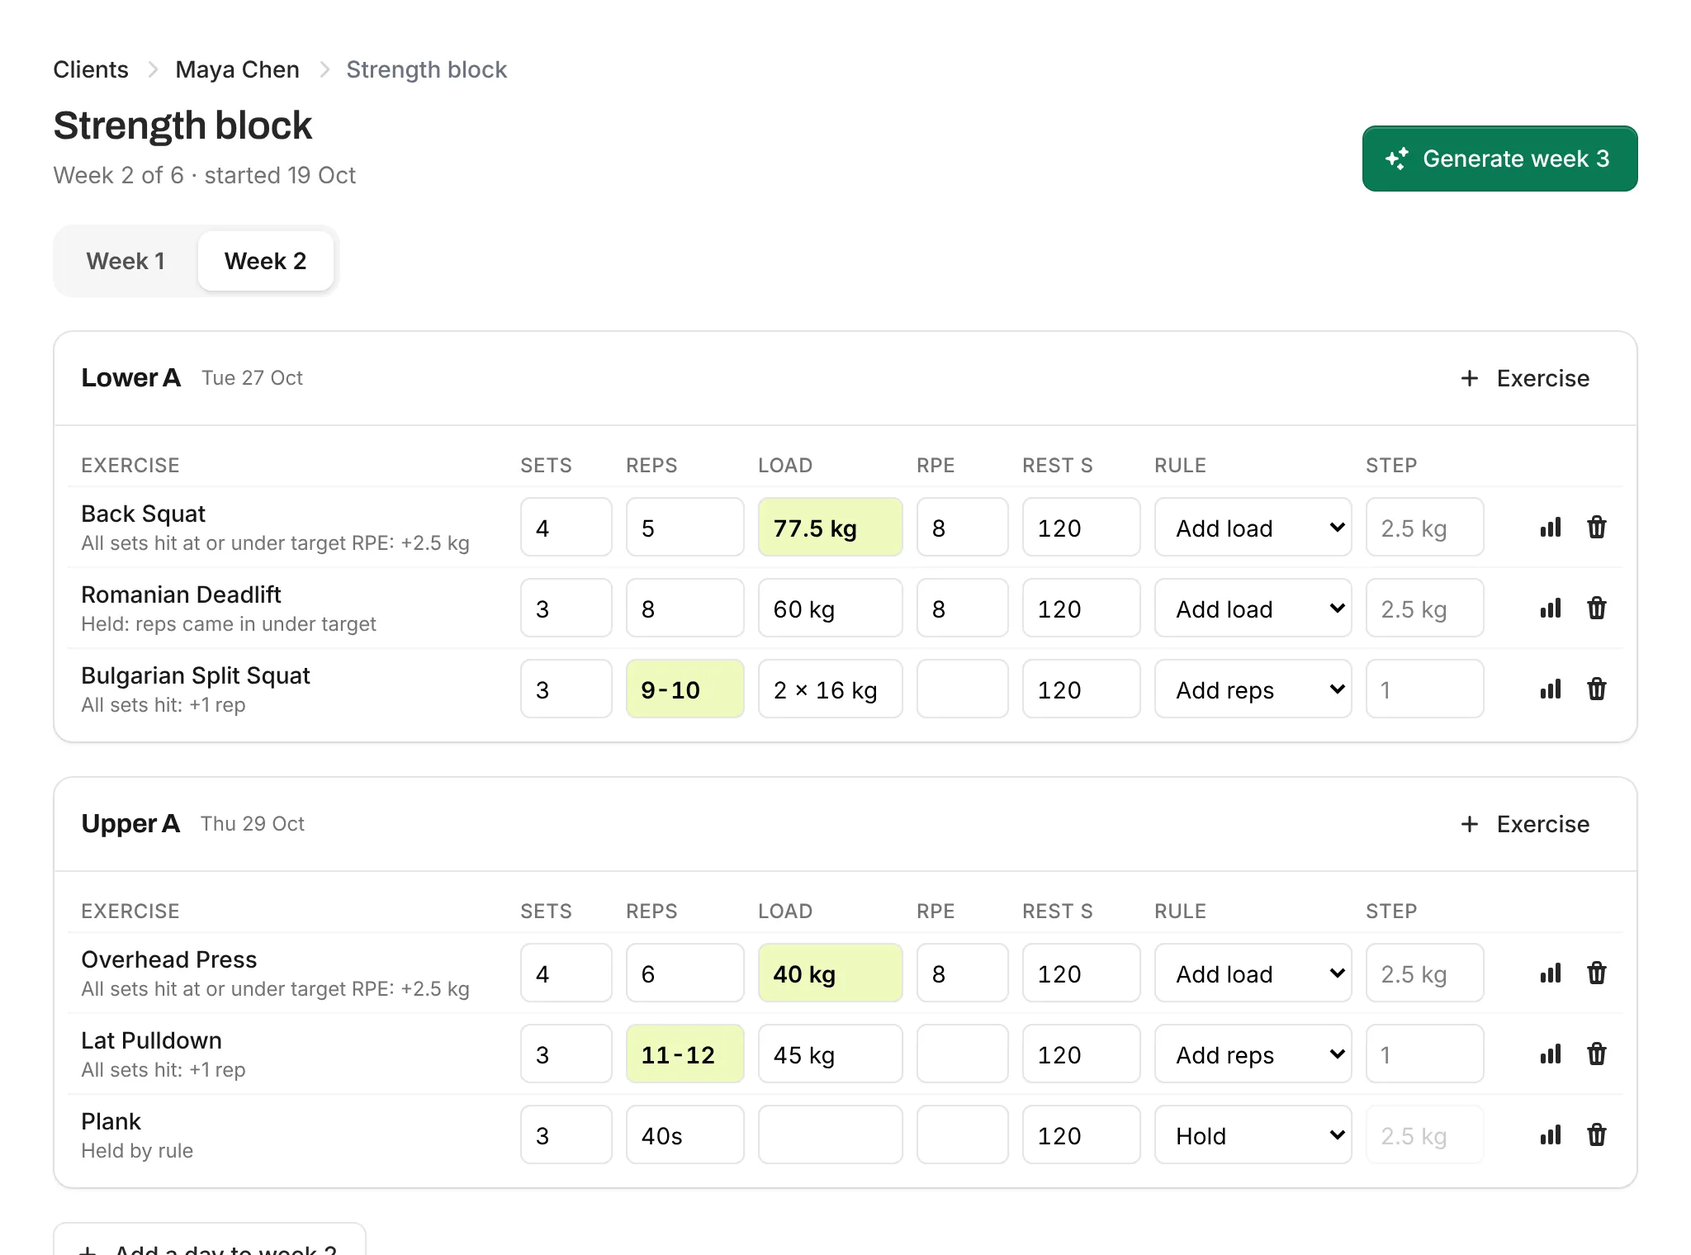
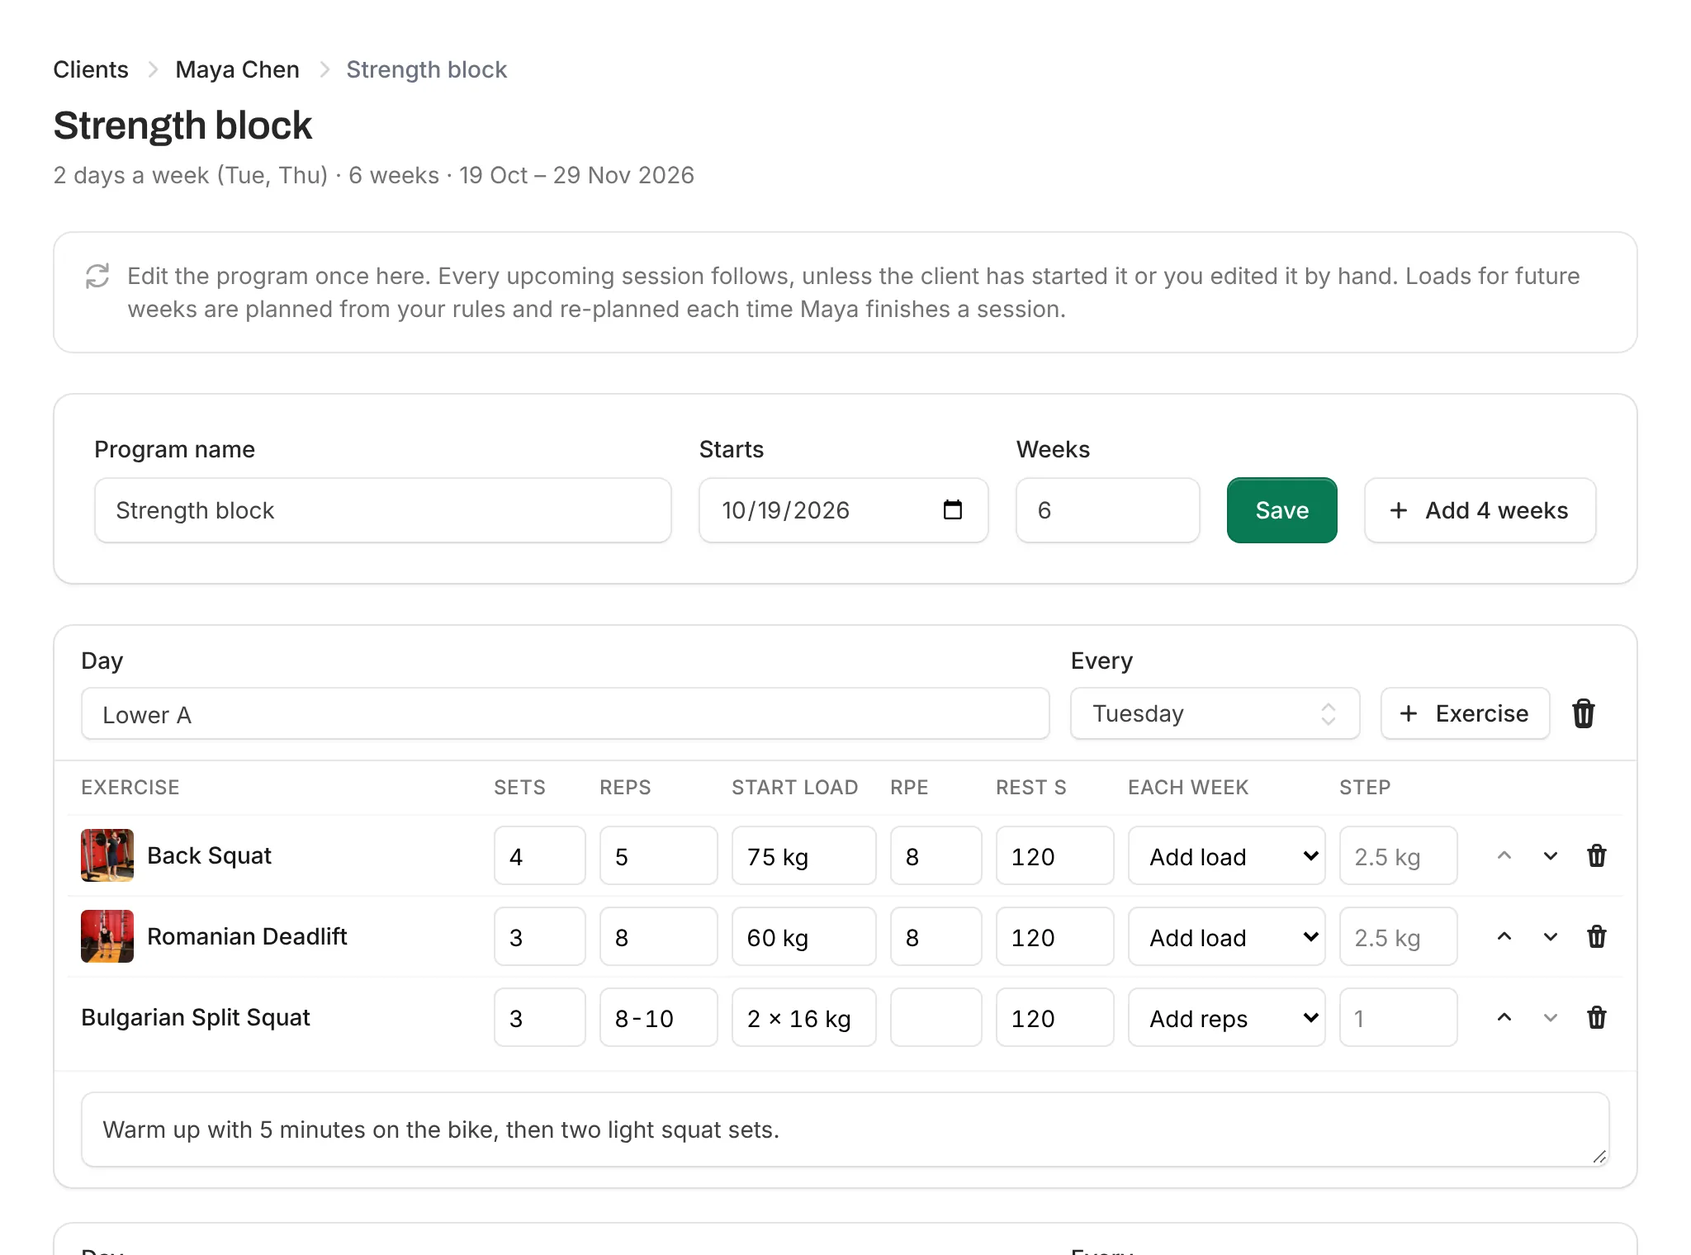
Update the home page for recurring programs, nutrition and gyms
Claude-Session: https://claude.ai/code/session_01BMW7iMu1orMHQmQGASM4NZ

diff --git a/resources/views/welcome.blade.php b/resources/views/welcome.blade.php
@@ -7,9 +7,9 @@
 <html lang="{{ str_replace('_', '-', app()->getLocale()) }}" class="scroll-smooth">
     <head>
         @include('partials.head', ['title' => __('Programming that keeps up with your clients')])
-        <meta name="description" content="{{ __('Spotter is coaching software for personal trainers. Build programs that progress from what each client actually lifts, give clients an app to log every set, and handle check-ins, form checks and messages from one inbox. English and French.') }}">
+        <meta name="description" content="{{ __('Spotter is coaching software for personal trainers and gyms. Build a program once and it schedules itself, progressing from what each client actually lifts. Nutrition tracking, an 870+ exercise library with photos, and one inbox for check-ins, form checks and messages. English and French.') }}">
         @php($shareTitle = __('Spotter: programming that keeps up with your clients'))
-        @php($shareText = __('Build programs that progress from what each client actually lifts, and handle every check-in, form check and message from one inbox. For personal trainers, in English and French.'))
+        @php($shareText = __('Build a program once and it schedules itself, progressing from what each client actually lifts. Nutrition, an 870+ exercise library and one inbox for every check-in. For trainers and gyms, in English and French.'))
         <link rel="canonical" href="{{ url('/') }}">
         <meta property="og:type" content="website">
         <meta property="og:site_name" content="Spotter">
@@ -39,8 +39,9 @@
                 </a>
                 <nav aria-label="{{ __('Main') }}" class="hidden items-center gap-7 text-sm font-medium text-zinc-300 md:flex">
                     <a href="#programs" class="hover:text-white">{{ __('Programs') }}</a>
-                    <a href="#clients" class="hover:text-white">{{ __('Client app') }}</a>
+                    <a href="#nutrition" class="hover:text-white">{{ __('Nutrition') }}</a>
                     <a href="#inbox" class="hover:text-white">{{ __('Inbox') }}</a>
+                    <a href="#gyms" class="hover:text-white">{{ __('Gyms') }}</a>
                     <a href="#switch" class="hover:text-white">{{ __('Switching') }}</a>
                     <a href="#pricing" class="hover:text-white">{{ __('Pricing') }}</a>
                 </nav>
@@ -67,7 +68,7 @@
                             {{ __('Programming that') }} <span class="text-lime">{{ __('keeps up with your clients.') }}</span>
                         </h1>
                         <p class="mx-auto mt-6 max-w-2xl text-lg leading-relaxed text-zinc-300 sm:text-xl">
-                            {{ __('Build programs that progress from what each client actually lifts. Then handle every check-in, form check and message from one inbox, with replies already started.') }}
+                            {{ __('Build a program once and Spotter puts every session on your client’s calendar, week after week, moving loads up from what they actually lift. Then handle every check-in, form check and message from one inbox, with replies already started.') }}
                         </p>
                         <div class="mt-9 flex flex-col justify-center gap-3 sm:flex-row">
                             <a href="{{ route('register') }}" class="inline-flex h-12 items-center justify-center rounded-xl bg-lime px-6 font-bold text-ink hover:bg-lime/90">{{ __('Create your coach account') }}</a>
@@ -79,7 +80,7 @@
                     <div class="relative mx-auto w-full max-w-5xl">
                         <div class="absolute -inset-x-10 -top-10 bottom-0 rounded-full bg-brand/30 blur-3xl" aria-hidden="true"></div>
                         <img src="{{ asset('images/home/program.webp') }}" width="2048" height="1520"
-                             alt="{{ __('Spotter program grid for week 2. Back squat load went from 75 to 77.5 kg and is highlighted; Romanian deadlift held because reps came in under target.') }}"
+                             alt="{{ __('The Spotter program editor: Lower A every Tuesday, with back squat, Romanian deadlift and split squats, each with sets, reps, a starting load and a rule to add load or reps each week.') }}"
                              class="relative hidden rounded-t-2xl border border-b-0 border-white/10 shadow-2xl sm:block">
                         <div class="relative mb-[-3rem] sm:hidden {{ $phone }}">
                             <img src="{{ asset('images/home/workout.webp') }}" width="780" height="1560" alt="{{ __('A client logging Back Squat sets in Spotter, with the rest timer running.') }}">
@@ -92,7 +93,7 @@
             <section class="border-b border-zinc-200 bg-zinc-50">
                 <div class="mx-auto grid max-w-6xl gap-8 px-4 py-14 sm:px-6 md:grid-cols-3">
                     @foreach ([
-                        [__('Rebuilding next week by hand'), __('Copying last week and bumping every load yourself. Spotter checks what each client logged and builds the next week for you to review.')],
+                        [__('Rebuilding every week by hand'), __('Copying sessions onto the calendar and bumping loads yourself. Build the program once: Spotter schedules every week and moves loads from what each client logged.')],
                         [__('Sunday night check-in pile'), __('Thirty check-ins, each needing a read and a reply. They land in one inbox, summarized, with the reply already started.')],
                         [__('Stuck because leaving is hard'), __('We import your client list and rebuild your programs from your exports, and tell you upfront what can’t come across.')],
                     ] as [$title, $text])
@@ -109,14 +110,14 @@
                 <div class="mx-auto grid max-w-6xl items-center gap-12 px-4 py-20 sm:px-6 lg:grid-cols-[minmax(0,1fr)_minmax(0,1.3fr)] lg:py-28">
                     <div>
                         <p class="text-sm font-bold uppercase tracking-wider text-brand">{{ __('Programs') }}</p>
-                        <h2 class="mt-3 font-display text-3xl font-extrabold tracking-tight sm:text-4xl">{{ __('Write the program once. Let the logs move it forward.') }}</h2>
-                        <p class="mt-4 text-lg leading-relaxed text-zinc-600">{{ __('Set a rule on each exercise: add load, add reps, or hold. When you build next week, Spotter checks every logged set against the plan.') }}</p>
+                        <h2 class="mt-3 font-display text-3xl font-extrabold tracking-tight sm:text-4xl">{{ __('Build it once. It schedules itself.') }}</h2>
+                        <p class="mt-4 text-lg leading-relaxed text-zinc-600">{{ __('Pick the training days and weekdays, add exercises from the library and set a rule on each: add load, add reps, or hold. Every session for every week lands on your client’s calendar.') }}</p>
                         <ul class="mt-8 flex flex-col gap-4">
                             @foreach ([
-                                __('Hit every set at or under the target effort? The load goes up by your step, like 2.5 kg or 5%.'),
-                                __('Missed reps or felt too hard? The row holds, and you can see why.'),
-                                __('Changed cells are highlighted, so reviewing a new week takes seconds.'),
-                                __('A spreadsheet-style grid you can edit like a sheet, with planned vs actual for every exercise.'),
+                                __('Edit the program once and every upcoming session follows. Sessions your client has started stay exactly as they are.'),
+                                __('Each time a session is done, the coming weeks are re-planned: targets hit means the load goes up by your step; missed reps or a missed session means it holds.'),
+                                __('Need a one-off change? Edit a single session and the program leaves it alone. Skip a week with one click.'),
+                                __('A calendar of every week shows what’s done, missed, planned or edited, with planned vs actual for each exercise.'),
                             ] as $point)
                                 <li class="flex gap-3">
                                     <span class="mt-1 flex size-5 shrink-0 items-center justify-center rounded-full bg-lime text-xs font-extrabold text-ink" aria-hidden="true">✓</span>
@@ -159,6 +160,22 @@
                         </div>
                     </figure>
                 </div>
+                <div class="mx-auto max-w-6xl px-4 pb-20 sm:px-6 lg:pb-28">
+                    <img src="{{ asset('images/home/calendar.webp') }}" width="2048" height="846" loading="lazy"
+                         alt="{{ __('A program calendar: six weeks of Tuesday and Thursday sessions, week 1 done and weeks 2 to 6 planned.') }}"
+                         class="w-full">
+
+                    <div class="mt-16 grid items-center gap-10 lg:grid-cols-[minmax(0,1fr)_minmax(0,1.4fr)]">
+                        <div>
+                            <h3 class="font-display text-2xl font-extrabold tracking-tight sm:text-3xl">{{ __('870+ exercises with photos and steps') }}</h3>
+                            <p class="mt-3 text-lg leading-relaxed text-zinc-600">{{ __('A full library is ready from day one: start and end photos, step-by-step instructions, muscles, equipment and level. Filter by muscle or equipment, and add your own exercises for your team.') }}</p>
+                            <p class="mt-3 leading-relaxed text-zinc-600">{{ __('Clients tap “How to” in their workout to see the photos and steps.') }}</p>
+                        </div>
+                        <img src="{{ asset('images/home/library.webp') }}" width="2048" height="1400" loading="lazy"
+                             alt="{{ __('The Spotter exercise library: cards with a photo, muscle group, equipment and level for each exercise, with filters at the top.') }}"
+                             class="rounded-2xl border border-zinc-200 shadow-xl">
+                    </div>
+                </div>
             </section>
 
             {{-- Client app --}}
@@ -185,6 +202,39 @@
                                 </figcaption>
                             </figure>
                         @endforeach
+                    </div>
+                </div>
+            </section>
+
+            {{-- Nutrition --}}
+            <section id="nutrition" class="scroll-mt-20 bg-zinc-50">
+                <div class="mx-auto grid max-w-6xl items-center gap-12 px-4 py-20 sm:px-6 lg:grid-cols-[minmax(0,1fr)_minmax(0,1.3fr)] lg:py-28">
+                    <div>
+                        <p class="text-sm font-bold uppercase tracking-wider text-brand">{{ __('Nutrition') }}</p>
+                        <h2 class="mt-3 font-display text-3xl font-extrabold tracking-tight sm:text-4xl">{{ __('Nutrition without another app to manage.') }}</h2>
+                        <p class="mt-4 text-lg leading-relaxed text-zinc-600">{{ __('Clients log weight, calories, protein, carbs and fat once a day. Already tracking somewhere else? They upload their export from MacroFactor, MyFitnessPal or Lose It! and every day comes across.') }}</p>
+                        <ul class="mt-8 flex flex-col gap-4">
+                            @foreach ([
+                                __('Set daily calorie and macro targets for each client.'),
+                                __('See 7- and 30-day averages, days within 10% of calories, and weight trend at a glance.'),
+                                __('Weekly check-in summaries include the week’s nutrition, so you see training and food together.'),
+                            ] as $point)
+                                <li class="flex gap-3">
+                                    <span class="mt-1 flex size-5 shrink-0 items-center justify-center rounded-full bg-lime text-xs font-extrabold text-ink" aria-hidden="true">✓</span>
+                                    <span class="leading-relaxed text-zinc-700">{{ $point }}</span>
+                                </li>
+                            @endforeach
+                        </ul>
+                    </div>
+                    <div class="relative">
+                        <img src="{{ asset('images/home/coach-nutrition.webp') }}" width="2048" height="1240" loading="lazy"
+                             alt="{{ __('The coach’s nutrition view for a client: 7- and 30-day averages against targets, and a daily log with weight, calories and macros.') }}"
+                             class="rounded-2xl border border-zinc-200 shadow-xl lg:me-28">
+                        <div class="absolute -bottom-12 -end-6 hidden w-40 lg:block">
+                            <div class="{{ $phone }} max-w-none border-8">
+                                <img src="{{ asset('images/home/nutrition.webp') }}" width="780" height="1560" loading="lazy" alt="{{ __('The client’s nutrition screen on a phone, with daily targets and a form to log the day.') }}">
+                            </div>
+                        </div>
                     </div>
                 </div>
             </section>
@@ -226,6 +276,32 @@
                         <div class="{{ $phone }}">
                             <img src="{{ asset('images/home/focus.webp') }}" width="780" height="1560" loading="lazy" alt="{{ __('The inbox on a phone, showing one item at a time with a drafted reply and an Approve and send button.') }}">
                         </div>
+                    </div>
+                </div>
+            </section>
+
+            {{-- Gyms --}}
+            <section id="gyms" class="scroll-mt-20 bg-zinc-50">
+                <div class="mx-auto grid max-w-6xl items-center gap-12 px-4 py-20 sm:px-6 lg:grid-cols-[minmax(0,1.3fr)_minmax(0,1fr)] lg:py-28">
+                    <img src="{{ asset('images/home/team.webp') }}" width="2048" height="1120" loading="lazy"
+                         alt="{{ __('The Team page: the gym owner and a coach, each with their role and client count, and a form to invite another coach.') }}"
+                         class="order-last rounded-2xl border border-zinc-200 shadow-xl lg:order-first">
+                    <div>
+                        <p class="text-sm font-bold uppercase tracking-wider text-brand">{{ __('For gyms') }}</p>
+                        <h2 class="mt-3 font-display text-3xl font-extrabold tracking-tight sm:text-4xl">{{ __('One gym, a whole team of trainers.') }}</h2>
+                        <p class="mt-4 text-lg leading-relaxed text-zinc-600">{{ __('Invite your coaches and work from one shared exercise library and set of templates. Each coach sees their own clients; owners and admins see everyone.') }}</p>
+                        <ul class="mt-8 flex flex-col gap-4">
+                            @foreach ([
+                                __('Reassign a client to another coach in one step. Their upcoming sessions and open inbox items go with them, and the message history stays.'),
+                                __('When a coach leaves, hand their clients to someone else first. Nothing is lost.'),
+                                __('Your gym’s name and colour on the client app.'),
+                            ] as $point)
+                                <li class="flex gap-3">
+                                    <span class="mt-1 flex size-5 shrink-0 items-center justify-center rounded-full bg-lime text-xs font-extrabold text-ink" aria-hidden="true">✓</span>
+                                    <span class="leading-relaxed text-zinc-700">{{ $point }}</span>
+                                </li>
+                            @endforeach
+                        </ul>
                     </div>
                 </div>
             </section>
@@ -283,9 +359,9 @@
 
                     <div class="mt-14 grid gap-6 lg:grid-cols-3">
                         @foreach ([
-                            ['name' => __('Starter'), 'price' => '$0', 'per' => __('forever'), 'blurb' => __('Try everything with your first clients.'), 'features' => [__('Up to 3 active clients'), __('Programs with progression rules'), __('Client app in English and French'), __('Coach Inbox with drafted replies')], 'cta' => __('Start free'), 'featured' => false, 'soon' => false],
+                            ['name' => __('Starter'), 'price' => '$0', 'per' => __('forever'), 'blurb' => __('Try everything with your first clients.'), 'features' => [__('Up to 3 active clients'), __('Recurring programs with progression rules'), __('870+ exercise library with photos'), __('Nutrition tracking and imports'), __('Client app in English and French'), __('Coach Inbox with drafted replies')], 'cta' => __('Start free'), 'featured' => false, 'soon' => false],
                             ['name' => __('Coach'), 'price' => '$39', 'per' => __('per month'), 'blurb' => __('Includes 15 active clients, then $1.50 per extra active client.'), 'features' => [__('Everything in Starter'), __('Unlimited programs and templates'), __('Import from TrueCoach, Trainerize or spreadsheets'), __('Your brand colour and name on the client app')], 'cta' => __('Start free'), 'featured' => true, 'soon' => false],
-                            ['name' => __('Team'), 'price' => '$99', 'per' => __('per month'), 'blurb' => __('3 coach seats and 50 active clients.'), 'features' => [__('Everything in Coach'), __('Shared client list and library'), __('Inbox for each coach')], 'cta' => __('Coming soon'), 'featured' => false, 'soon' => true],
+                            ['name' => __('Team'), 'price' => '$99', 'per' => __('per month'), 'blurb' => __('3 coach seats and 50 active clients.'), 'features' => [__('Everything in Coach'), __('Owners and admins see every client'), __('Shared exercise library and templates'), __('Reassign clients between coaches'), __('An inbox for each coach')], 'cta' => __('Start free'), 'featured' => false, 'soon' => false],
                         ] as $plan)
                             <div @class(['flex flex-col rounded-2xl p-7', 'bg-ink text-white ring-4 ring-lime' => $plan['featured'], 'border border-zinc-200' => ! $plan['featured']])>
                                 <div class="flex items-center justify-between">
@@ -366,7 +442,10 @@
                     <h2 class="text-center font-display text-3xl font-extrabold tracking-tight sm:text-4xl">{{ __('Questions coaches ask') }}</h2>
                     <div class="mt-12 divide-y divide-zinc-200 rounded-2xl border border-zinc-200 bg-white">
                         @foreach ([
-                            [__('How does progression work?'), __('Each exercise can add load, add reps or hold. When you build the next week, Spotter compares what the client logged with what you planned and only progresses the rows they earned.')],
+                            [__('Do I have to schedule every session?'), __('No. Build the program once with training days on set weekdays, and Spotter puts every session for every week on your client’s calendar. Edit the program and every upcoming session follows.')],
+                            [__('How does progression work?'), __('Each exercise can add load, add reps or hold. Each time your client finishes a session, Spotter compares what they logged with the plan and re-plans the coming weeks: targets hit means the next step, misses mean it holds.')],
+                            [__('Does Spotter track nutrition?'), __('Yes: weight, calories and macros, one entry per day, with targets you set. Clients can also upload exports from MacroFactor, MyFitnessPal or Lose It!. It’s an upload, not a live sync, because those apps don’t offer an open connection.')],
+                            [__('Can my whole gym use Spotter?'), __('Yes. Invite your coaches to your team. Each coach sees their own clients; owners and admins see everyone and can reassign clients. The library and templates are shared.')],
                             [__('Does Spotter message my clients for me?'), __('No. It starts replies for you to finish. Every reply and program change waits for you to approve, edit or dismiss it.')],
                             [__('Do my clients need to download an app?'), __('No. Spotter opens in any phone browser, and clients can add it to their home screen so it feels like an app.')],
                             [__('Can I bring my programs from TrueCoach or Trainerize?'), __('Yes. Upload your client CSV and your program files (PDF or text). Spotter rebuilds each program and asks you to confirm any exercise names it isn’t sure about. Past workout logs usually don’t come across, because those platforms don’t export them.')],

diff --git a/tests/Feature/HomePageTest.php b/tests/Feature/HomePageTest.php
@@ -14,7 +14,9 @@ class HomePageTest extends TestCase
         $this->get(route('home'))
             ->assertOk()
             ->assertSee('keeps up with your clients.')
-            ->assertSee('Write the program once. Let the logs move it forward.')
+            ->assertSee('Build it once. It schedules itself.')
+            ->assertSee('Nutrition without another app to manage.')
+            ->assertSee('One gym, a whole team of trainers.')
             ->assertSee('Everything that needs you, in one ranked queue.')
             ->assertDontSee('your voice')
             ->assertSee('Bring your clients. We’ll be honest about the rest.', false)
